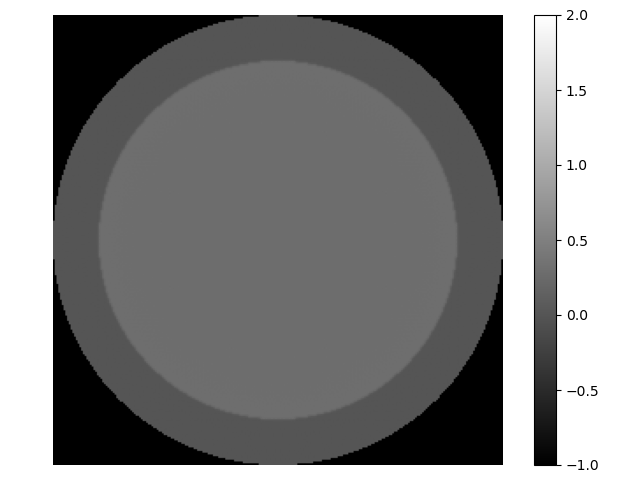
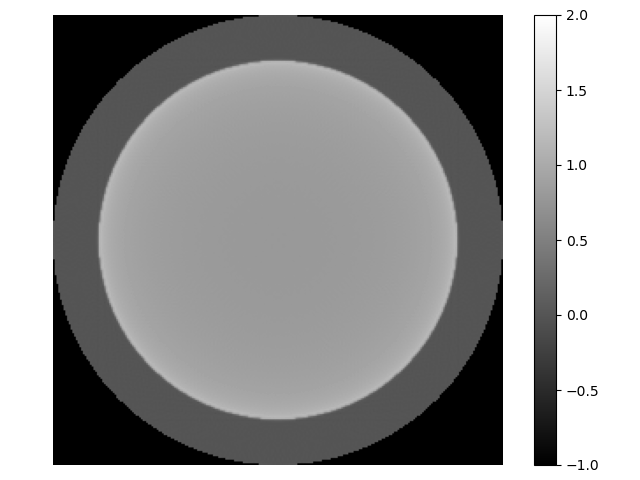
beam hardening

diff --git a/scan_and_reconstruct.py b/scan_and_reconstruct.py
@@ -5,7 +5,7 @@ from ramp_filter import *
 from back_project import *
 from hu import *
 
-def scan_and_reconstruct(photons, material, phantom, scale, angles, mas=10000, alpha=0.001, reconstruct = True, with_filter=True):
+def scan_and_reconstruct(photons, material, phantom, scale, angles, mas=10000, alpha=0.001, reconstruct = True, with_filter=True, harden_w = False):
 
 	""" Simulation of the CT scanning process
 		reconstruction = scan_and_reconstruct(photons, material, phantom, scale, angles, mas, alpha)
@@ -22,13 +22,13 @@ def scan_and_reconstruct(photons, material, phantom, scale, angles, mas=10000, a
 	# create sinogram from phantom data, with received detector values
 	sinogram = ct_scan(photons, material, phantom, scale, angles, mas)
 
-	# FIXME: Check if this is correct
-	# TODO:(RT) Add in poisson transmission noise, which is approximated with a normal distribution
-	sinogram = np.random.normal(sinogram, np.sqrt(sinogram))
+	# # FIXME: Check if this is correct
+	# # TODO:(RT) Add in poisson transmission noise, which is approximated with a normal distribution
+	# sinogram = np.random.normal(sinogram, np.sqrt(sinogram))
 
 	# TODO:(RT)
 	# convert detector values into calibrated attenuation values
-	sinogram = ct_calibrate(photons, material, sinogram, scale)
+	sinogram = ct_calibrate(photons, material, sinogram, scale, harden_w = False)
 
 	if not reconstruct:
 		return sinogram

diff --git a/ct_calibrate.py b/ct_calibrate.py
@@ -33,7 +33,7 @@ from scipy import interpolate
 # TODO: (RT) updated 19/05/2024
 from attenuate import attenuate
 
-def ct_calibrate(photons, material, sinogram, scale):
+def ct_calibrate(photons, material, sinogram, scale, harden_w = False):
 
 	""" ct_calibrate convert CT detections to linearised attenuation
 	sinogram = ct_calibrate(photons, material, sinogram, scale) takes the CT detection sinogram
@@ -51,10 +51,15 @@ def ct_calibrate(photons, material, sinogram, scale):
 	# perform calibration based on eqn(4) in the handout
 	sinogram = -np.log(sinogram / scan_air)
 
-	# TODO: include beam hardening for water
-	t_w = np.arange(0, 10.1, 0.1)
-	p_w = attenuate(photons, material.coeff('Water'), t_w) # attenuation of water for each thickness
-	# Fit a function f to map p_w to t_w
-	f = interpolate.interp1d(p_w, t_w)
-	
+	if harden_w:
+		# TODO: include beam hardening for water
+		t_w = np.arange(0, 10.1, 0.1) # FIXME: not sure if the number of thicknesses is sufficient
+		p_w = attenuate(photons, material.coeff('Water'), t_w) # attenuation of water for each thickness
+		# Fit a function f to map p_w to t_w
+		f = interpolate.interp1d(p_w, t_w)
+		# Determine equivalent water thickness for each measured sinogram value p_m
+		t_wm = f(sinogram)
+		C = 1.0 # FIXME: C is a chosen constant so that p ~= p_m at some arbitrary low thickness of material
+		sinogram = C*t_wm
+
 	return sinogram
